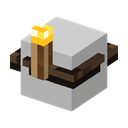
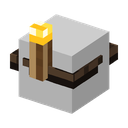
Headband torch: thin band tight around the head
Claude-Session: https://claude.ai/code/session_01S4occ44uVa8LAyj1D5iJdo

Changed region(s): [[0.0625, 0.0938, 0.9375, 0.9062], [0.5, 0.5938, 0.5312, 0.625]]

diff --git a/tools/generate_starter_pack.py b/tools/generate_starter_pack.py
@@ -97,7 +97,7 @@ def build():
     b = m.bone('band', [0, 28, 0])
     band = lambda f_, x, y, w, h, r: ((rgb('#5a4330') + (255,)) if y == 0 and r.random() < 0.5 else (rgb('#1c1511') + (255,)) if y == h - 1 else
                                       shade(rgb('#3a2b20'), 0.85 + r.random() * 0.25) + (255,))
-    ring(m, b, 28, 2, band, r=5)
+    ring(m, b, 28, 2, band, r=4.75, thick=0.25)  # dünn und eng am Kopf (Hutebene endet bei 4.5)
     stick = lambda f_, x, y, w, h, r: ((rgb('#c9a06a') + (255,)) if (f_ in ('front', 'left', 'right', 'back') and x == 0) else
                                        shade(rgb('#6e4724'), 0.85 + r.random() * 0.25) + (255,))
     m.box(b, (-1, 28.5, -6), (2, 5, 2), stick)
